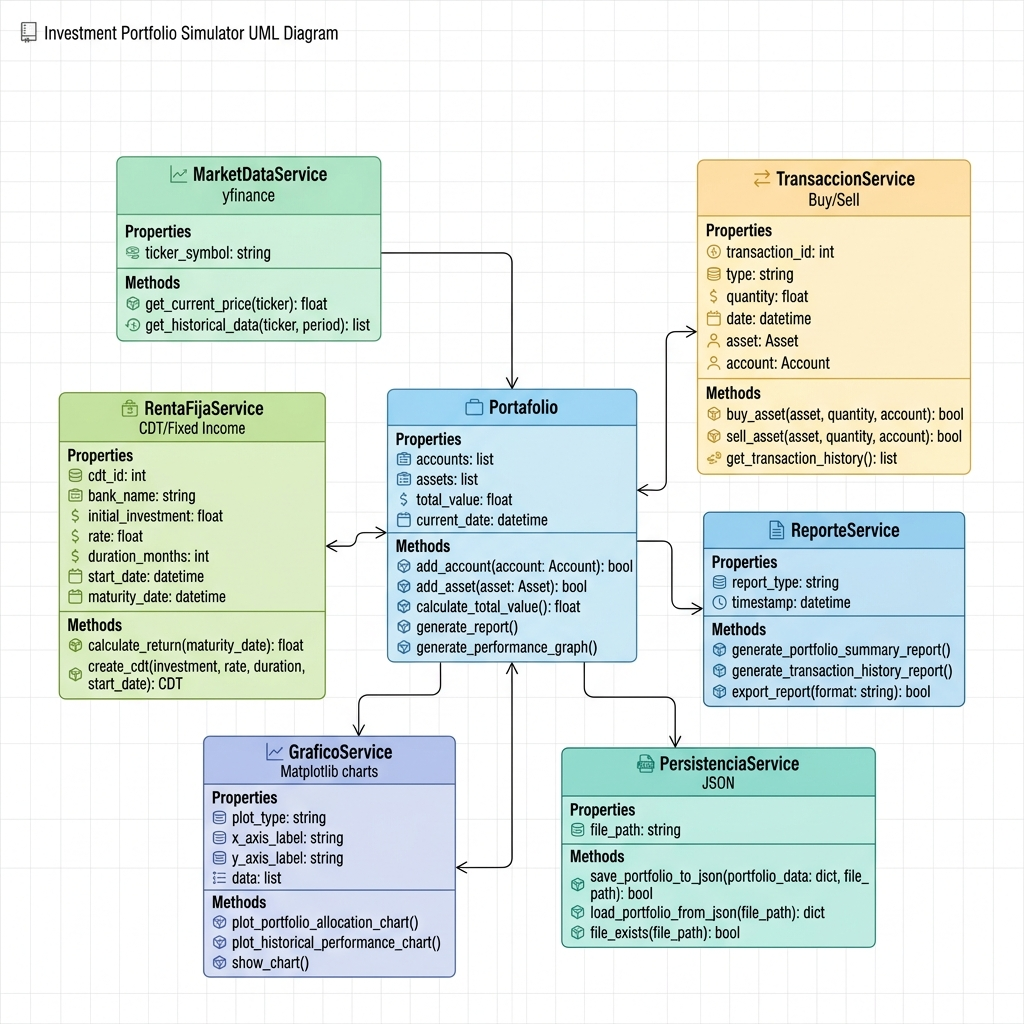
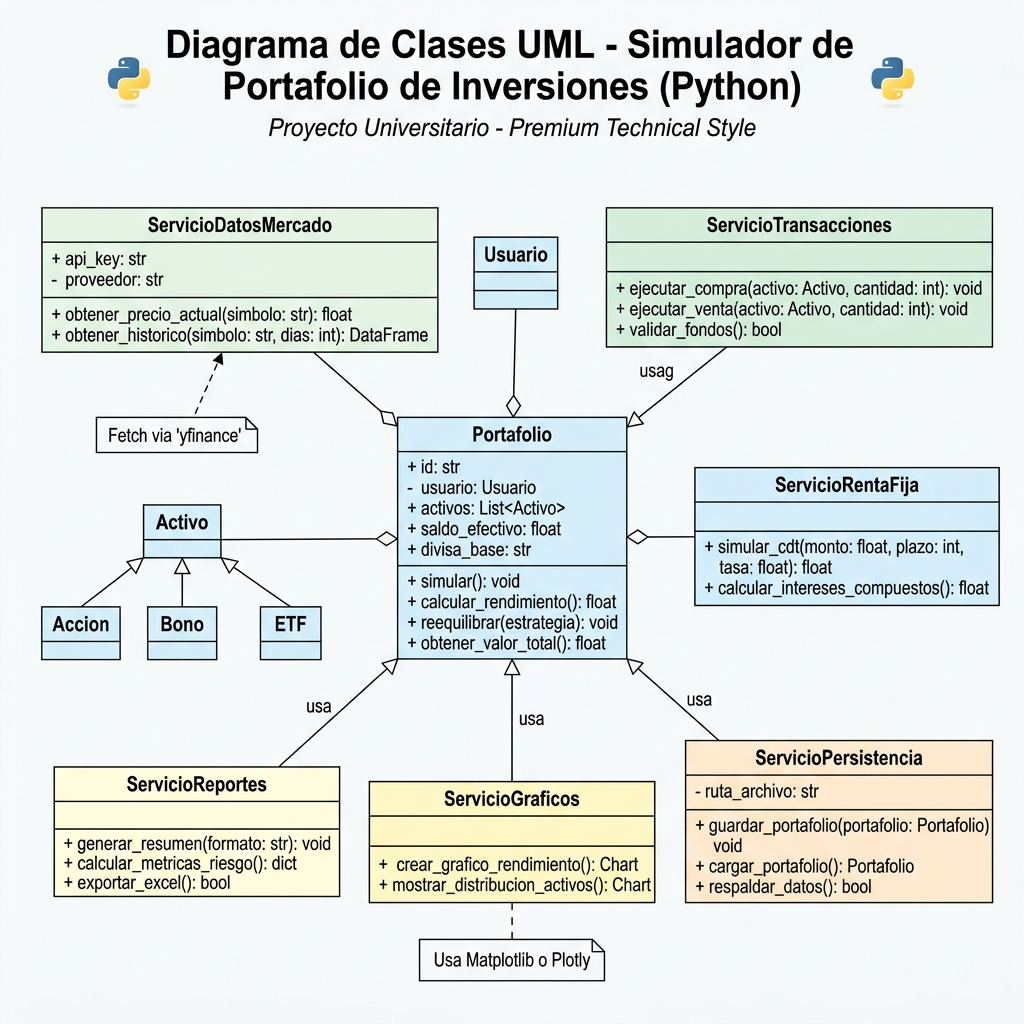
Translate all documentation and diagrams to Spanish and add compliance section

diff --git a/diagrama_uml.md b/diagrama_uml.md
@@ -50,41 +50,41 @@ classDiagram
     }
 
     %% ==================== SERVICIOS ====================
-    class MarketDataService {
+    class ServicioDatosMercado {
         +obtener_precio_accion(ticker: str) dict$
         +obtener_historial_precios(ticker: str, dias: int) Series$
         +obtener_dividendos(ticker: str, dias: int) float$
     }
 
-    class TransaccionService {
+    class ServicioTransacciones {
         +comprar_accion(portafolio, ticker, cantidad) bool$
         +vender_accion(portafolio, ticker, cantidad) bool$
     }
 
-    class RentaFijaService {
+    class ServicioRentaFija {
         +agregar_cdt(portafolio, monto, tasa_anual, dias_plazo) bool$
         +liquidar_intereses_cdts(portafolio) void$
         +cobrar_dividendos(portafolio) void$
     }
 
-    class ReporteService {
+    class ServicioReportes {
         +calcular_valor_portafolio(portafolio) dict$
         +mostrar_resumen(portafolio, capital_inicial) dict$
     }
 
-    class GraficoService {
+    class ServicioGraficos {
         +graficar_evolucion_portafolio(portafolio) void$
         +graficar_composicion_portafolio(portafolio) void$
         +graficar_precios_acciones(portafolio, dias) void$
         +graficar_rentabilidad_acciones(portafolio) void$
     }
 
-    class PersistenciaService {
+    class ServicioPersistencia {
         +guardar_portafolio(portafolio, capital_inicial) void$
         +cargar_portafolio() tuple$
     }
 
-    class Main {
+    class Principal {
         +mostrar_menu() void$
         +main() void$
     }
@@ -102,28 +102,28 @@ classDiagram
     Portafolio --> "*" EstructuraCDT : contiene
     Portafolio --> "*" EstructuraTransaccion : registra
 
-    TransaccionService ..> Portafolio : opera sobre
-    TransaccionService ..> MarketDataService : utiliza
+    ServicioTransacciones ..> Portafolio : opera sobre
+    ServicioTransacciones ..> ServicioDatosMercado : utiliza
 
-    RentaFijaService ..> Portafolio : opera sobre
-    RentaFijaService ..> MarketDataService : utiliza
+    ServicioRentaFija ..> Portafolio : opera sobre
+    ServicioRentaFija ..> ServicioDatosMercado : utiliza
 
-    ReporteService ..> Portafolio : consulta
-    ReporteService ..> MarketDataService : utiliza
+    ServicioReportes ..> Portafolio : consulta
+    ServicioReportes ..> ServicioDatosMercado : utiliza
 
-    GraficoService ..> Portafolio : visualiza
-    GraficoService ..> ReporteService : utiliza
-    GraficoService ..> MarketDataService : utiliza
+    ServicioGraficos ..> Portafolio : visualiza
+    ServicioGraficos ..> ServicioReportes : utiliza
+    ServicioGraficos ..> ServicioDatosMercado : utiliza
 
-    PersistenciaService ..> Portafolio : guarda/carga
+    ServicioPersistencia ..> Portafolio : guarda/carga
 
-    Main ..> Portafolio : crea/usa
-    Main ..> TransaccionService : usa
-    Main ..> RentaFijaService : usa
-    Main ..> ReporteService : usa
-    Main ..> GraficoService : usa
-    Main ..> PersistenciaService : usa
-    Main ..> Constantes : accede
+    Principal ..> Portafolio : crea/usa
+    Principal ..> ServicioTransacciones : usa
+    Principal ..> ServicioRentaFija : usa
+    Principal ..> ServicioReportes : usa
+    Principal ..> ServicioGraficos : usa
+    Principal ..> ServicioPersistencia : usa
+    Principal ..> Constantes : accede
 ```
 
 ---
@@ -185,35 +185,35 @@ flowchart TD
 ```mermaid
 sequenceDiagram
     actor Usuario
-    participant Main
-    participant TransaccionService
-    participant MarketDataService
+    participant Principal
+    participant ServicioTransacciones
+    participant ServicioDatosMercado
     participant YahooFinance
     participant Portafolio
 
-    Usuario->>Main: Seleccionar "Comprar Acciones"
-    Main->>Usuario: Solicitar ticker y cantidad
-    Usuario->>Main: ticker="NVDA", cantidad=20
+    Usuario->>Principal: Seleccionar "Comprar Acciones"
+    Principal->>Usuario: Solicitar ticker y cantidad
+    Usuario->>Principal: ticker="NVDA", cantidad=20
 
-    Main->>TransaccionService: comprar_accion(portafolio, "NVDA", 20)
+    Principal->>ServicioTransacciones: comprar_accion(portafolio, "NVDA", 20)
 
-    TransaccionService->>MarketDataService: obtener_precio_accion("NVDA")
-    MarketDataService->>YahooFinance: API Request
-    YahooFinance-->>MarketDataService: precio=201.68
-    MarketDataService-->>TransaccionService: datos mercado
+    ServicioTransacciones->>ServicioDatosMercado: obtener_precio_accion("NVDA")
+    ServicioDatosMercado->>YahooFinance: Petición API
+    YahooFinance-->>ServicioDatosMercado: precio=201.68
+    ServicioDatosMercado-->>ServicioTransacciones: datos mercado
 
-    TransaccionService->>TransaccionService: Validar rango precio
-    TransaccionService->>TransaccionService: Calcular comisión (0.1%)
-    TransaccionService->>Portafolio: Verificar capital >= costo_total
-    Portafolio-->>TransaccionService: OK
+    ServicioTransacciones->>ServicioTransacciones: Validar rango precio
+    ServicioTransacciones->>ServicioTransacciones: Calcular comisión (0.1%)
+    ServicioTransacciones->>Portafolio: Verificar capital >= costo_total
+    Portafolio-->>ServicioTransacciones: OK
 
-    TransaccionService->>Portafolio: capital -= costo_total
-    TransaccionService->>Portafolio: comisiones_pagadas += comision
-    TransaccionService->>Portafolio: Actualizar/Agregar acciones
-    TransaccionService->>Portafolio: Registrar transacción
+    ServicioTransacciones->>Portafolio: capital -= costo_total
+    ServicioTransacciones->>Portafolio: comisiones_pagadas += comision
+    ServicioTransacciones->>Portafolio: Actualizar/Agregar acciones
+    ServicioTransacciones->>Portafolio: Registrar transacción
 
-    TransaccionService-->>Main: True (éxito)
-    Main-->>Usuario: Confirmación compra
+    ServicioTransacciones-->>Principal: True (éxito)
+    Principal-->>Usuario: Confirmación compra
 ```
 
 ---
@@ -270,24 +270,4 @@ erDiagram
         datetime fecha
         float valor_total
     }
-```
-
----
-
-## Cómo Visualizar
-
-### Opción 1: PlantUML (Recomendado)
-Usar la extensión PlantUML en VS Code o el servidor online:
-- Archivo: `diagrama_uml.puml`
-- URL: https://www.plantuml.com/plantuml
-
-### Opción 2: Mermaid
-- Archivo: `diagrama_uml.md`
-- GitHub lo renderiza automáticamente
-- Extensión Mermaid Preview en VS Code
-
-### Opción 3: Generar PNG
-```bash
-# Instalar PlantUML (requiere Java)
-java -jar plantuml.jar diagrama_uml.puml
 ```

diff --git a/README.md b/README.md
@@ -1,4 +1,4 @@
-# 📈 Simulador de Portafolio de Inversión v1.0
+# Simulador de Portafolio de Inversión v1.0
 
 ![Arquitectura del Sistema](diagrama_portafolio.png)
 
@@ -8,25 +8,40 @@ Este es un simulador avanzado de gestión de portafolios de inversión desarroll
 
 ---
 
- Características Principales
+## Cumplimiento de la Rúbrica
 
-*    Datos Reales:** Integración con `yfinance` para obtener precios de cierre, mínimos y máximos en tiempo real.
-*    Gestión de Acciones:** Compra y venta de activos con cálculo automático de comisiones de broker y precio promedio ponderado.
-*    Renta Fija (CDTs):** Simulación de certificados de depósito que generan intereses diarios y se liquidan al vencimiento.
-*   Dividendos:** Consulta y cobro automático de dividendos con aplicación de retenciones de ley.
-*   Gráficos Avanzados:** Generación de visualizaciones con `matplotlib`:
+Este proyecto ha sido diseñado para cumplir con todos los requisitos técnicos solicitados:
+1.  **Universo de Activos:** Implementación de 10 acciones líderes del mercado.
+2.  **Renta Variable y Fija:** Gestión de acciones y CDTs con tasas anuales configurables.
+3.  **Liquidación Diaria:** Simulación de intereses de renta fija calculados día a día.
+4.  **Datos Reales:** Uso de `yfinance` para precios de cierre, mínimos y máximos.
+5.  **Rentabilidad Neta:** Cálculo dinámico considerando comisiones y dividendos.
+6.  **Costos de Comisión:** Aplicación automática del 0.1% en cada transacción.
+7.  **Validación de Capital:** Control estricto de fondos antes de ejecutar órdenes.
+8.  **Representación Gráfica:** 4 visualizaciones completas del rendimiento y composición.
+9.  **Coherencia de Precios:** Validación de precios de ejecución dentro del rango diario (Min/Max).
+
+---
+
+## Características Principales
+
+*   **Datos Reales:** Integración con `yfinance` para obtener precios de cierre, mínimos y máximos en tiempo real.
+*   **Gestión de Acciones:** Compra y venta de activos con cálculo automático de comisiones de broker y precio promedio ponderado.
+*   **Renta Fija (CDTs):** Simulación de certificados de depósito que generan intereses diarios y se liquidan al vencimiento.
+*   **Dividendos:** Consulta y cobro automático de dividendos con aplicación de retenciones de ley.
+*   **Gráficos Avanzados:** Generación de visualizaciones con `matplotlib`:
     *   Evolución histórica del valor total.
     *   Composición del portafolio (Efectivo vs Acciones vs CDTs).
     *   Historial de precios por activo.
     *   Rentabilidad neta por acción.
-*   * Persistencia:** Guardado y carga automática del estado del portafolio en formato JSON.
+*   **Persistencia:** Guardado y carga automática del estado del portafolio en formato JSON.
 
 ---
 
- Tecnologías Utilizadas
+## Tecnologías Utilizadas
 
 *   **Python 3.x**
-*   **Libraries:**
+*   **Librerías:**
     *   `yfinance`: Datos del mercado financiero.
     *   `pandas`: Manejo de series de tiempo y estructuras de datos.
     *   `matplotlib`: Generación de reportes visuales.
@@ -34,15 +49,15 @@ Este es un simulador avanzado de gestión de portafolios de inversión desarroll
 
 ---
 
- Estructura de Datos
+## Estructura de Datos
 
 El núcleo del programa utiliza una organización orientada a objetos para gestionar la complejidad del mercado financiero:
-*   **Clase Portafolio:** Centraliza el capital, el diccionario de posiciones (Hash Maps para búsqueda rápida O(1)) y listas de transacciones.
+*   **Clase Portafolio:** Centraliza el capital, el diccionario de posiciones (Hash Maps para búsqueda rápida O(1)) y listas de transacciones (O(1) para inserción).
 *   **Gestión de Historial:** Implementa un registro cronológico de operaciones para el análisis de rendimiento temporal.
 
 ---
 
- Instalación y Uso
+## Instalación y Uso
 
 1. **Clonar el repositorio:**
    ```bash
